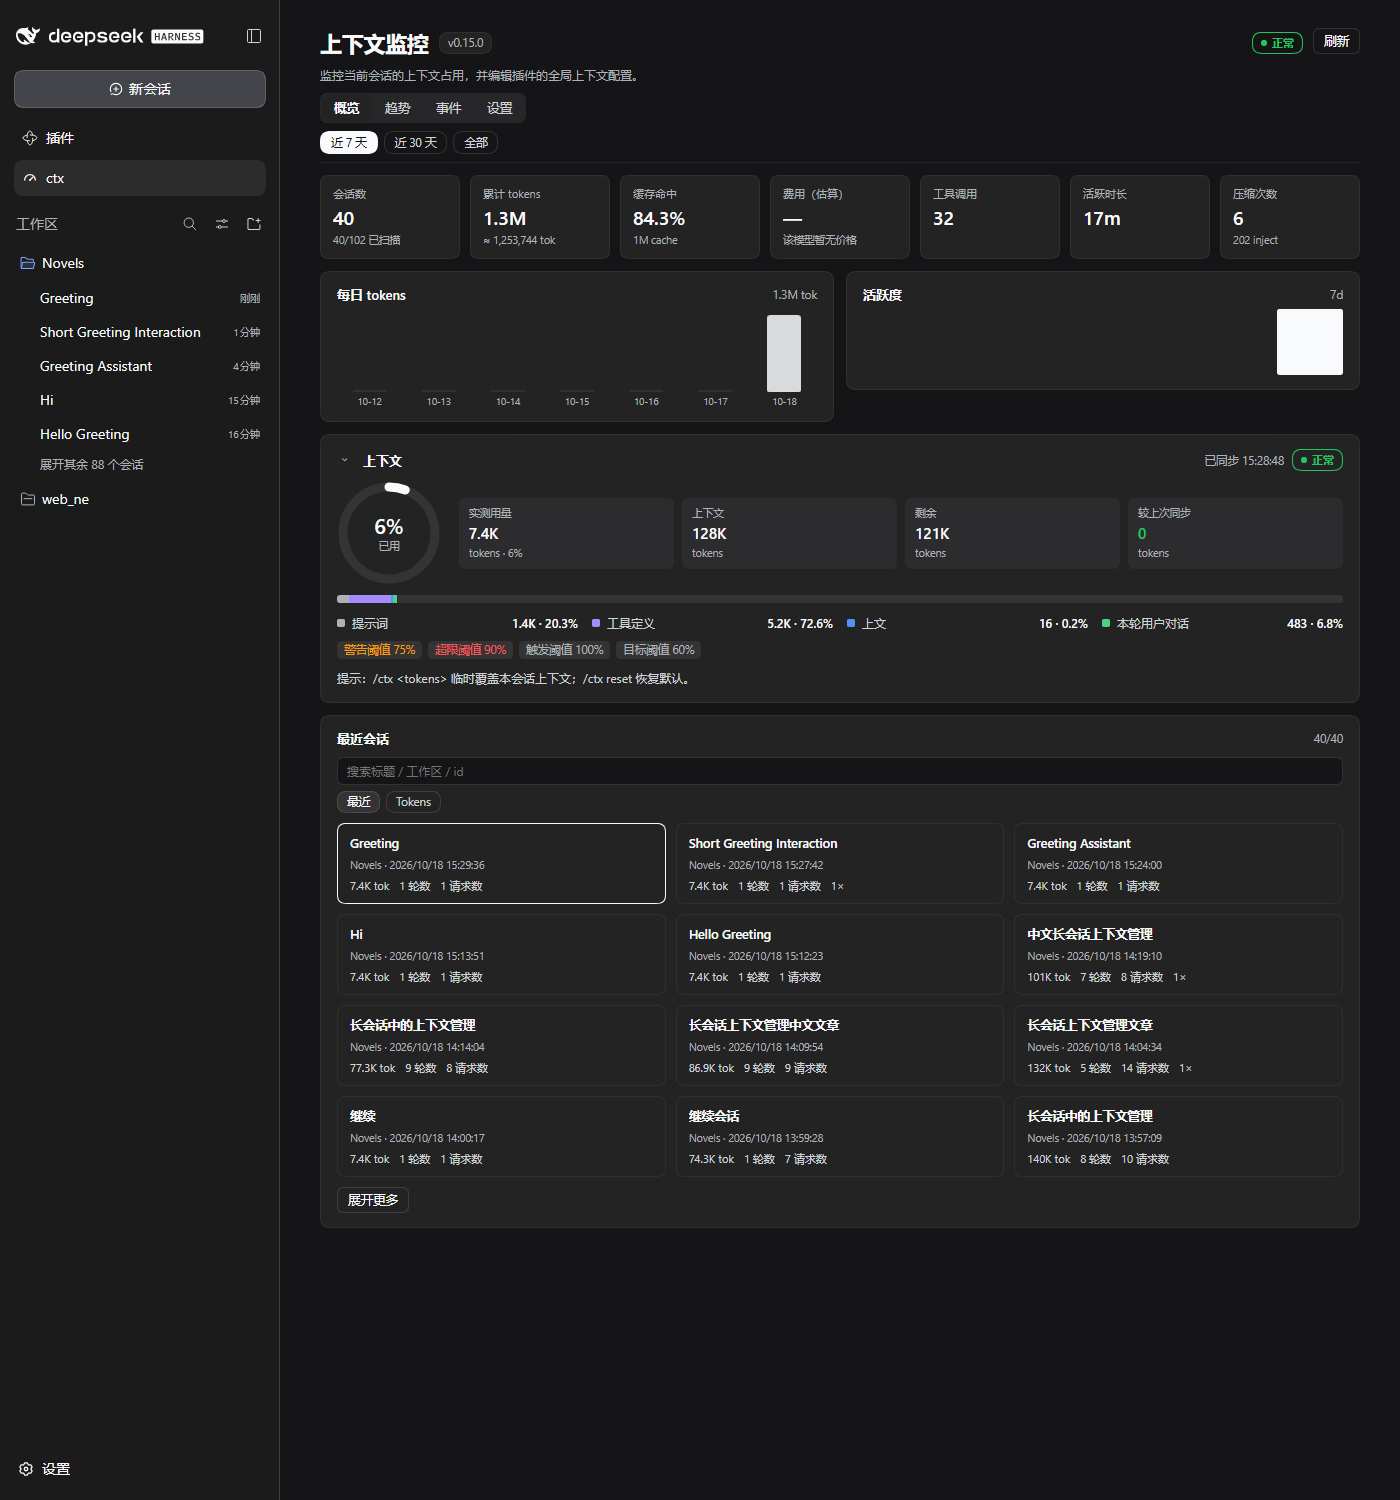
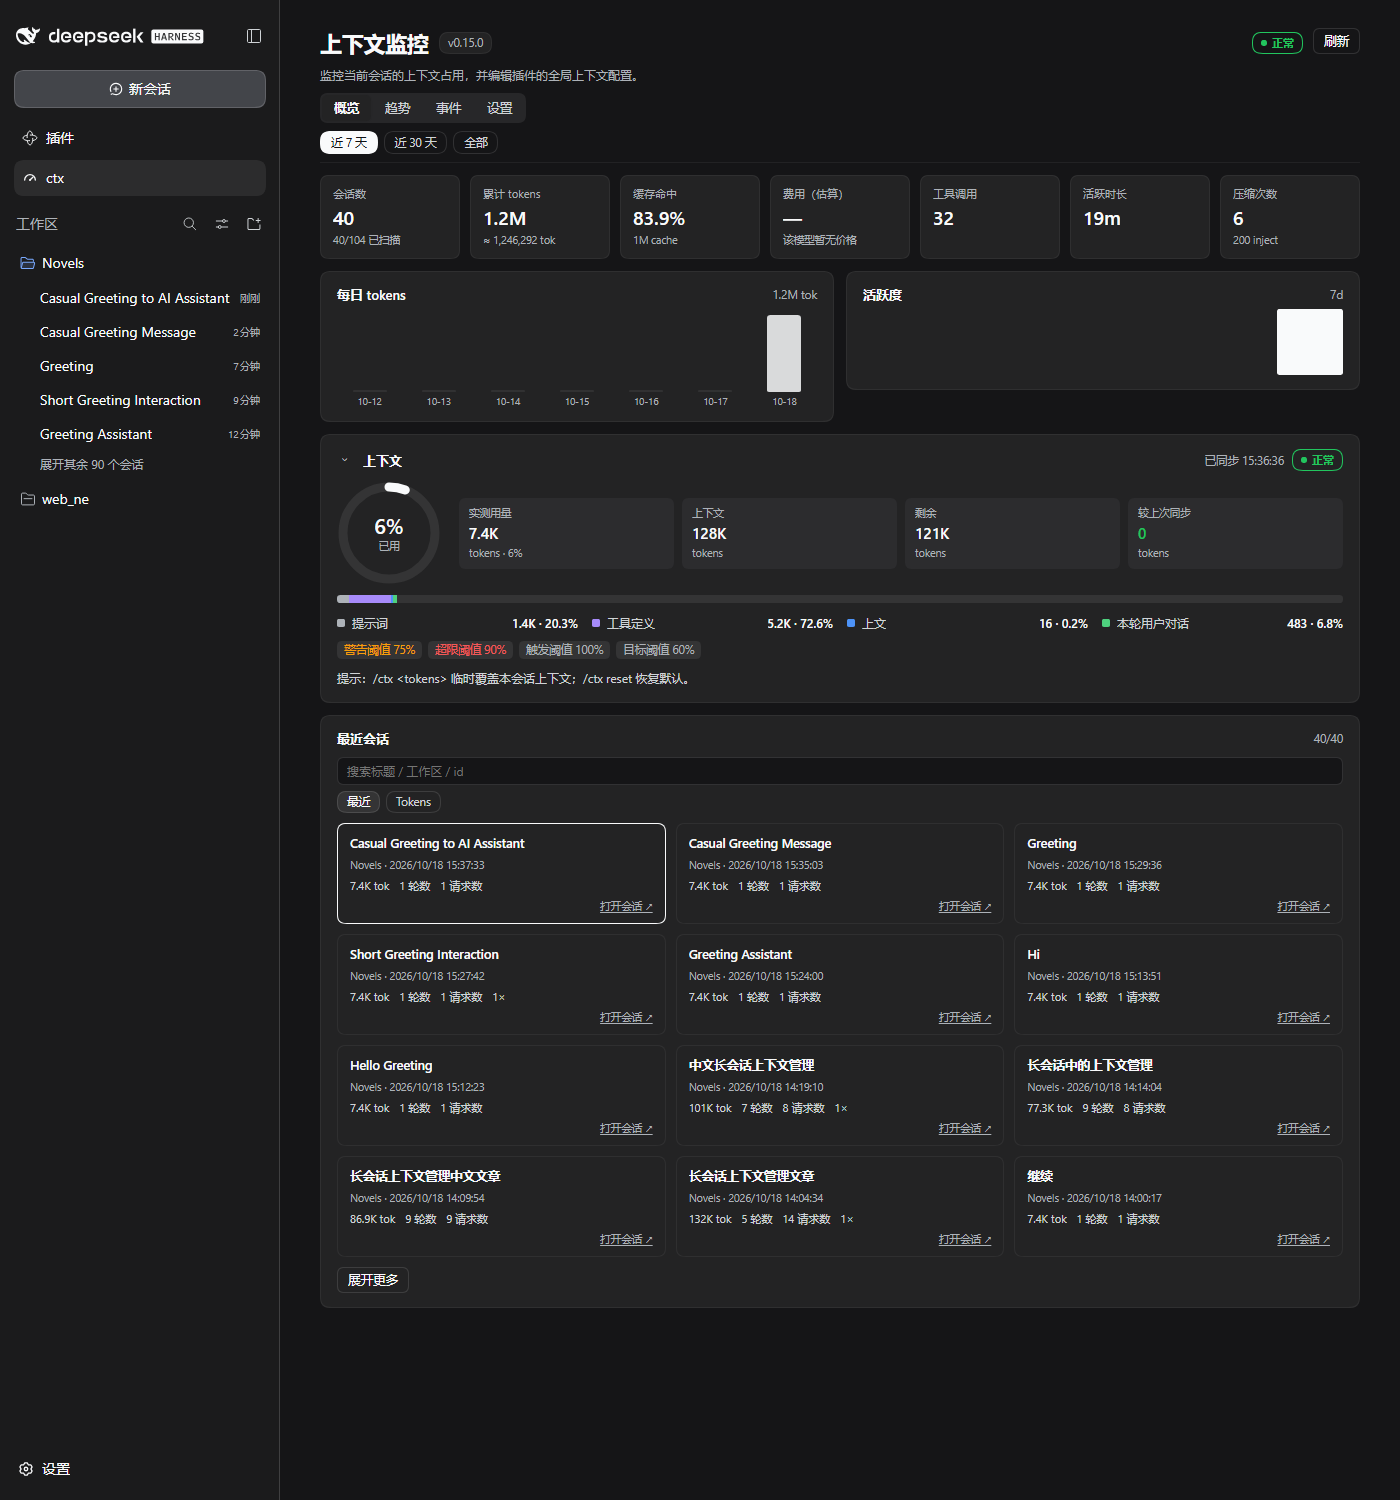
feat(ui): open a recent session from its card

diff --git a/plugin-skeleton/client.js b/plugin-skeleton/client.js
@@ -166,6 +166,7 @@ window.__ModuleLoader__.load({
       sortRecent: 'Newest',
       sortTokens: 'Tokens',
       selectSession: 'View trend',
+      openSession: 'Open chat',
       trendTitle: 'Request context trend',
       trendPrompt: 'Prompt',
       trendOutput: 'Output',
@@ -336,6 +337,7 @@ window.__ModuleLoader__.load({
       sortRecent: '最近',
       sortTokens: 'Tokens',
       selectSession: '查看趋势',
+      openSession: '打开会话',
       trendTitle: '请求上下文趋势',
       trendPrompt: '请求',
       trendOutput: '输出',
@@ -728,6 +730,7 @@ window.__ModuleLoader__.load({
       eventMain: { flex: '1 1 auto', minWidth: 0, fontSize: '11.5px', color: 'var(--dsw-alias-label-secondary)', wordBreak: 'break-word' },
       eventAside: { flex: 'none', fontSize: '10.5px', color: 'var(--dsw-alias-label-tertiary)', fontVariantNumeric: 'tabular-nums', whiteSpace: 'nowrap' },
       searchInput: { width: '100%', boxSizing: 'border-box', border: '0.5px solid var(--dsw-alias-border-l2)', borderRadius: '8px', background: 'var(--dsw-alias-bg-base)', color: 'inherit', padding: '5px 9px', fontSize: '12px' },
+      linkAction: { marginLeft: 'auto', fontSize: '10.5px', color: 'var(--dsw-alias-label-tertiary)', cursor: 'pointer', textDecoration: 'underline', textUnderlineOffset: '2px' },
       banner: { display: 'flex', alignItems: 'center', gap: '8px', flexWrap: 'wrap', padding: '6px 10px', borderRadius: '8px', background: 'var(--dsw-alias-bg-layer-2)', fontSize: '11.5px', color: 'var(--dsw-alias-label-secondary)' },
     })
 
@@ -1978,6 +1981,27 @@ window.__ModuleLoader__.load({
       )
     }
 
+    /**
+     * 没有公开的「切换主视图会话」客户端 API；按标题找到左侧会话列表按钮并点击。
+     * 只在 sidebar 容器里找，避免点到对话标题；找不到时静默返回 false。
+     */
+    function openSessionInSidebar(title) {
+      if (!title || typeof document === 'undefined') return false
+      const norm = (value) => String(value || '').replace(/\s+/g, ' ').trim()
+      const containers = Array.from(document.querySelectorAll('aside, nav, [class*="sidebar"], [class*="Sidebar"]'))
+      for (const container of containers) {
+        const target = Array.from(container.querySelectorAll('button, [role="button"], a')).find((element) => {
+          const text = norm(element.textContent)
+          return text === title || (text.startsWith(title) && text.length <= title.length + 24)
+        })
+        if (target) {
+          target.click()
+          return true
+        }
+      }
+      return false
+    }
+
     function SessionCards(props) {
       const t = props.t
       const sessions = Array.isArray(props.sessions) ? props.sessions : []
@@ -2011,6 +2035,14 @@ window.__ModuleLoader__.load({
               h('span', null, `${formatTokens(item.requests)} ${t('requestsLabel')}`),
               item.compactions > 0 ? h('span', null, `${formatTokens(item.compactions)}×` ) : null,
             ),
+            h('span', {
+              role: 'button',
+              tabIndex: 0,
+              style: styles.linkAction,
+              onClick: (event) => { event.preventDefault(); event.stopPropagation(); if (props.onOpen) props.onOpen(item) },
+              onKeyDown: (event) => { if (event.key === 'Enter' || event.key === ' ') { event.preventDefault(); event.stopPropagation(); if (props.onOpen) props.onOpen(item) } },
+              'data-ctx-session-open': item.id,
+            }, `${t('openSession')} ↗`),
           ),
         )),
         filtered.length > 12 ? h('button', { type: 'button', style: styles.button, onClick: () => setExpanded((value) => !value), 'data-ctx-session-more': '1' }, expanded ? t('showLess') : t('showMore')) : null,
@@ -2185,7 +2217,7 @@ window.__ModuleLoader__.load({
           ))
         }
         children.push(h(OverviewCard, { key: 'overview', t, budget, latest, live, liveAt: liveState.at, controlActive: Boolean(control.active) }))
-        children.push(h(SessionCards, { key: 'sessions', t, sessions: analytics ? analytics.sessions : [], selected: detailSession, onSelect: (id) => { setSelected(id); setTab('trend') } }))
+        children.push(h(SessionCards, { key: 'sessions', t, sessions: analytics ? analytics.sessions : [], selected: detailSession, onSelect: (id) => { setSelected(id); setTab('trend') }, onOpen: (item) => { openSessionInSidebar(item.title || shortSessionId(item.id)) } }))
         if (analytics && Array.isArray(analytics.warnings) && analytics.warnings.length > 0) {
           children.push(h('div', { key: 'warnings', style: styles.banner, title: analytics.warnings.join(' | ') }, `${t('coverage').replace('{scanned}', analytics.coverage.scanned).replace('{total}', analytics.coverage.total)} · ${t('readFailures').replace('{count}', String(analytics.warnings.length))}`))
         }

diff --git a/plugin-skeleton/docs/UI-PROPOSAL.md b/plugin-skeleton/docs/UI-PROPOSAL.md
@@ -151,7 +151,7 @@ dsh-context 的客户端样式大量使用 DSH 主题变量与过渡变量（统
 | P0 加载/错误/空态/重试 | 各 tab 的 skeleton、错误 banner、retry；空态文案 | 截图与 static 测试 |
 | P1 宿主聚合 | `/status/analytics`、`/status/session-detail`；`sessionQuery` + `metrics.js` 纯折叠 | `test/metrics.mjs` 17/17 |
 | P1 KPI 带 | 会话/tokens/缓存命中/费用估算/工具调用/活跃时长/压缩次数 | `docs/ui/0.15-overview.png` |
-| P1 每日图 + 会话卡 | 7/30 天每日 tokens、活跃度热力；搜索/排序/展开/点击看趋势 | 同上 |
+| P1 每日图 + 会话卡 | 7/30 天每日 tokens、活跃度热力；搜索/排序/展开/点击看趋势/打开会话 | 同上 |
 | P1 设置合并 | 控制 + 全局配置 + 工具与提示词集中到设置 tab | `docs/ui/0.15-settings.png` |
 | P2 热力 + 事件时间线 | 已做活动热力与压缩时间线；上下文浏览/drilldown/agent 网络未做 | 见下方局限 |
 | 可维护性 | 新增宿主 `metrics.js`；折叠/聚合有纯函数测试；CSS token 与复用组件 | `test/metrics.mjs` |
@@ -160,6 +160,6 @@ dsh-context 的客户端样式大量使用 DSH 主题变量与过渡变量（统
 
 - 费用只对已知 DeepSeek 模型估算；当前 WSL 的 `agnes-3.0-flash` 无价格，显示 `—` 而不是编一个数字。
 - 跨会话只扫描最近 40 个会话（界面标注覆盖率）；全量扫描会随会话增长变慢。
-- 点击会话卡在页内看趋势，未跳转对话主视图；没有找到公开的客户端切会话 API，未用 DOM 点击 hack。
+- 点击会话卡在页内看趋势；「打开会话」用标题匹配左侧会话列表做 DOM 桥接（没有公开的客户端切会话 API，匹配不到时静默不跳）。
 - 趋势图未叠加 target 虚线（只在图例显示预算），后续可加。
 - 上下文 composition 沿用原有实测数据，没有对历史会话逐条重算 tokenMeter（会非常慢）。

diff --git a/plugin-skeleton/docs/EVIDENCE.md b/plugin-skeleton/docs/EVIDENCE.md
@@ -178,7 +178,7 @@ npm 运行依赖：无；生命周期脚本：无
 - 局限（诚实声明）：
   - 跨会话 KPI 只扫描最近 40 个会话（界面标 40/102），不是全库；全量扫描会随会话数增长而变慢，因此没做；
   - 费用只对内置价格表的 DeepSeek 模型估算，未知 provider 显示 `—`；
-  - 会话卡点击是「在本页看趋势」，不是跳转到对话主视图（未找到公开的客户端切会话 API，未做 DOM 点击黑客）；
+  - 会话卡点击是「在本页看趋势」；另有「打开会话」链接按标题点击左侧会话列表（DOM 桥接）。没有公开的客户端切会话 API，找不到标题时静默不跳。
   - 趋势图未画目标线，只显示预算文字；活动热力最多 90 天（`all` 时）。
   - 首次加载 40 个会话的事件折叠耗时未做独立压测；已加 20s 内存缓存和 4 并发限制。
 
